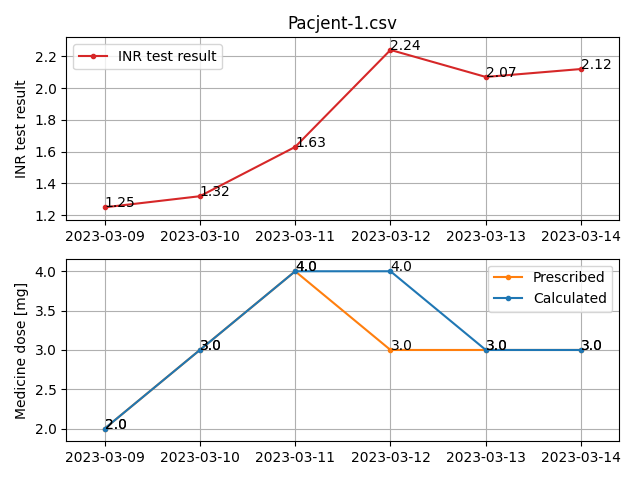
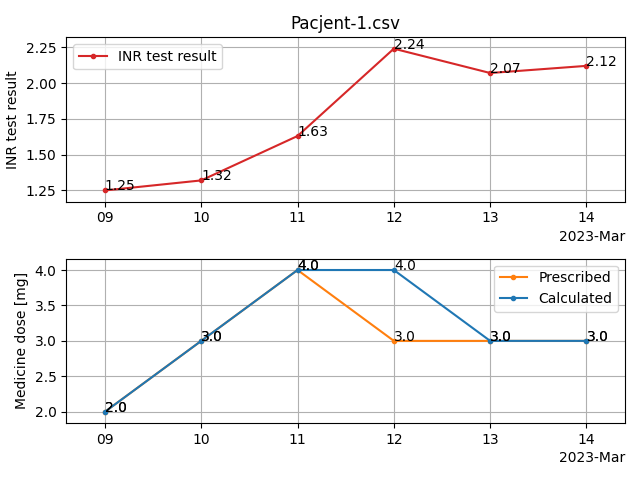
roboczy algorytm v2

diff --git a/main.py b/main.py
@@ -1,6 +1,7 @@
 # IMPORTS
 import numpy as np
 import matplotlib.pyplot as plt
+import matplotlib.dates as mdates
 from matplotlib import pylab
 from datetime import datetime
 import os
@@ -66,22 +67,27 @@ def solve(data_file):
                 print(f'{date}: brak wcześniejszego wyniku - set {prescribed_medicine_dose}')
             else:
                 previous_prescribed_medicine_dose=prescribed_medicine_dose_column[row-1]
-                if inr_test_result >= very_high_inr:
+                if inr_test_result >= very_high_inr: # większe niż 4.5
                     results[row] = 0
-                    print(f'{date}: INR {inr_test_result} bardzo za wysokie - set 0')
-                elif inr_test_result >= target_inr_max:
-                    results[row] = previous_prescribed_medicine_dose * 0.7
-                    print(f'{date}: INR {inr_test_result} za wysokie - set {results[row]}')
-                elif inr_test_result >= target_inr_min:
+                    print(f'{date}: INR {inr_test_result} bardzo za wysokie - set 0 mg')
+                    # TODO male odchylenie przy wcześniejszych wynikach w normie
+                    # TODO dodatkowy wspolczynnik dla danego pacjenta
+                elif inr_test_result >= target_inr_max:  # większe niż 3.0
+                    # wspolczynnik = odchylenie / zakres
+                    factor = (inr_test_result - target_inr_mid) / (very_high_inr - target_inr_max)
+                    results[row] = previous_prescribed_medicine_dose * (1 - 0.5*factor)
+                    print(f'{date}: INR {inr_test_result} za wysokie - zmniejsz do {results[row]} mg')
+                elif inr_test_result >= target_inr_min:  # 2.0-3.0
                     results[row] = previous_prescribed_medicine_dose
-                    print(f'{date}: INR {inr_test_result} w normie - set {results[row]}')
+                    print(f'{date}: INR {inr_test_result} w normie - zostaw {results[row]} mg')
                 else:  # INR test result below target_inr_min
+                    factor = (target_inr_mid - inr_test_result) / target_inr_min
                     if previous_prescribed_medicine_dose == 0:
-                        results[row] = 1 * 1.3
-                        print(f'a {date}: INR {inr_test_result} za niskie - set {results[row]}')
+                        results[row] = 2 * factor
+                        print(f'a {date}: INR {inr_test_result} za niskie - zwiększ do {results[row]} mg')
                     else:
-                        results[row] = previous_prescribed_medicine_dose * 1.3
-                        print(f'{date}: INR {inr_test_result} za niskie - set {results[row]}')
+                        results[row] = previous_prescribed_medicine_dose * (1 + 0.5*factor)
+                        print(f'{date}: INR {inr_test_result} za niskie - zwiększ do {results[row]} mg')
         else:
             print('ERROR!!!')
 
@@ -101,6 +107,8 @@ def solve(data_file):
     axs[0].plot(dates_column, inr_test_results_column, color='C3', label='INR test result', marker='.')
     axs[0].set_title(f'{filename}')
     axs[0].set_ylabel('INR test result')
+    axs[0].xaxis.set_major_formatter(
+        mdates.ConciseDateFormatter(axs[0].xaxis.get_major_locator()))
     axs[0].grid(True)
     for index in range(len(dates_column)):
         axs[0].text(dates_column[index], inr_test_results_column[index], inr_test_results_column[index])
@@ -110,6 +118,9 @@ def solve(data_file):
     axs[1].plot(dates_column, prescribed_medicine_dose_column, color='C1', label='Prescribed', marker='.')
     axs[1].plot(dates_column, results, color='C0', label='Calculated', marker='.')
     axs[1].set_ylabel('Medicine dose [mg]')
+    axs[1].xaxis.set_major_formatter(
+        mdates.ConciseDateFormatter(axs[1].xaxis.get_major_locator()))
+    axs[1].xaxis_date()
     axs[1].grid(True)
     for index in range(len(dates_column)):
         axs[1].text(dates_column[index], results[index], f'{results[index]:.1f}')

diff --git a/README.md b/README.md
@@ -1,12 +1,12 @@
 ## INResolver
 
-**_Algorithm for setting proper quantity of anti-clotting medicine_**
+**_Algorithm for setting proper quantity of VKA_**
 
 Script takes patient's data (INR test result, other medicines taken, ALT, AST, GGTP test results,
 prescribed dose, type of medicine, birthdate, sex)
 in CSV format and tries to return the proper quantity of acenocoumarol or warfarin medicine.
 
-![plot example](results/patient_x.csv.png "Plot example")
+![plot example](results/Pacjent-1.csv.png "Plot example")
 
 ### Structure of CSV (comma-separated values) file with patient's data:
 date (dd.mm.yyyy);\
